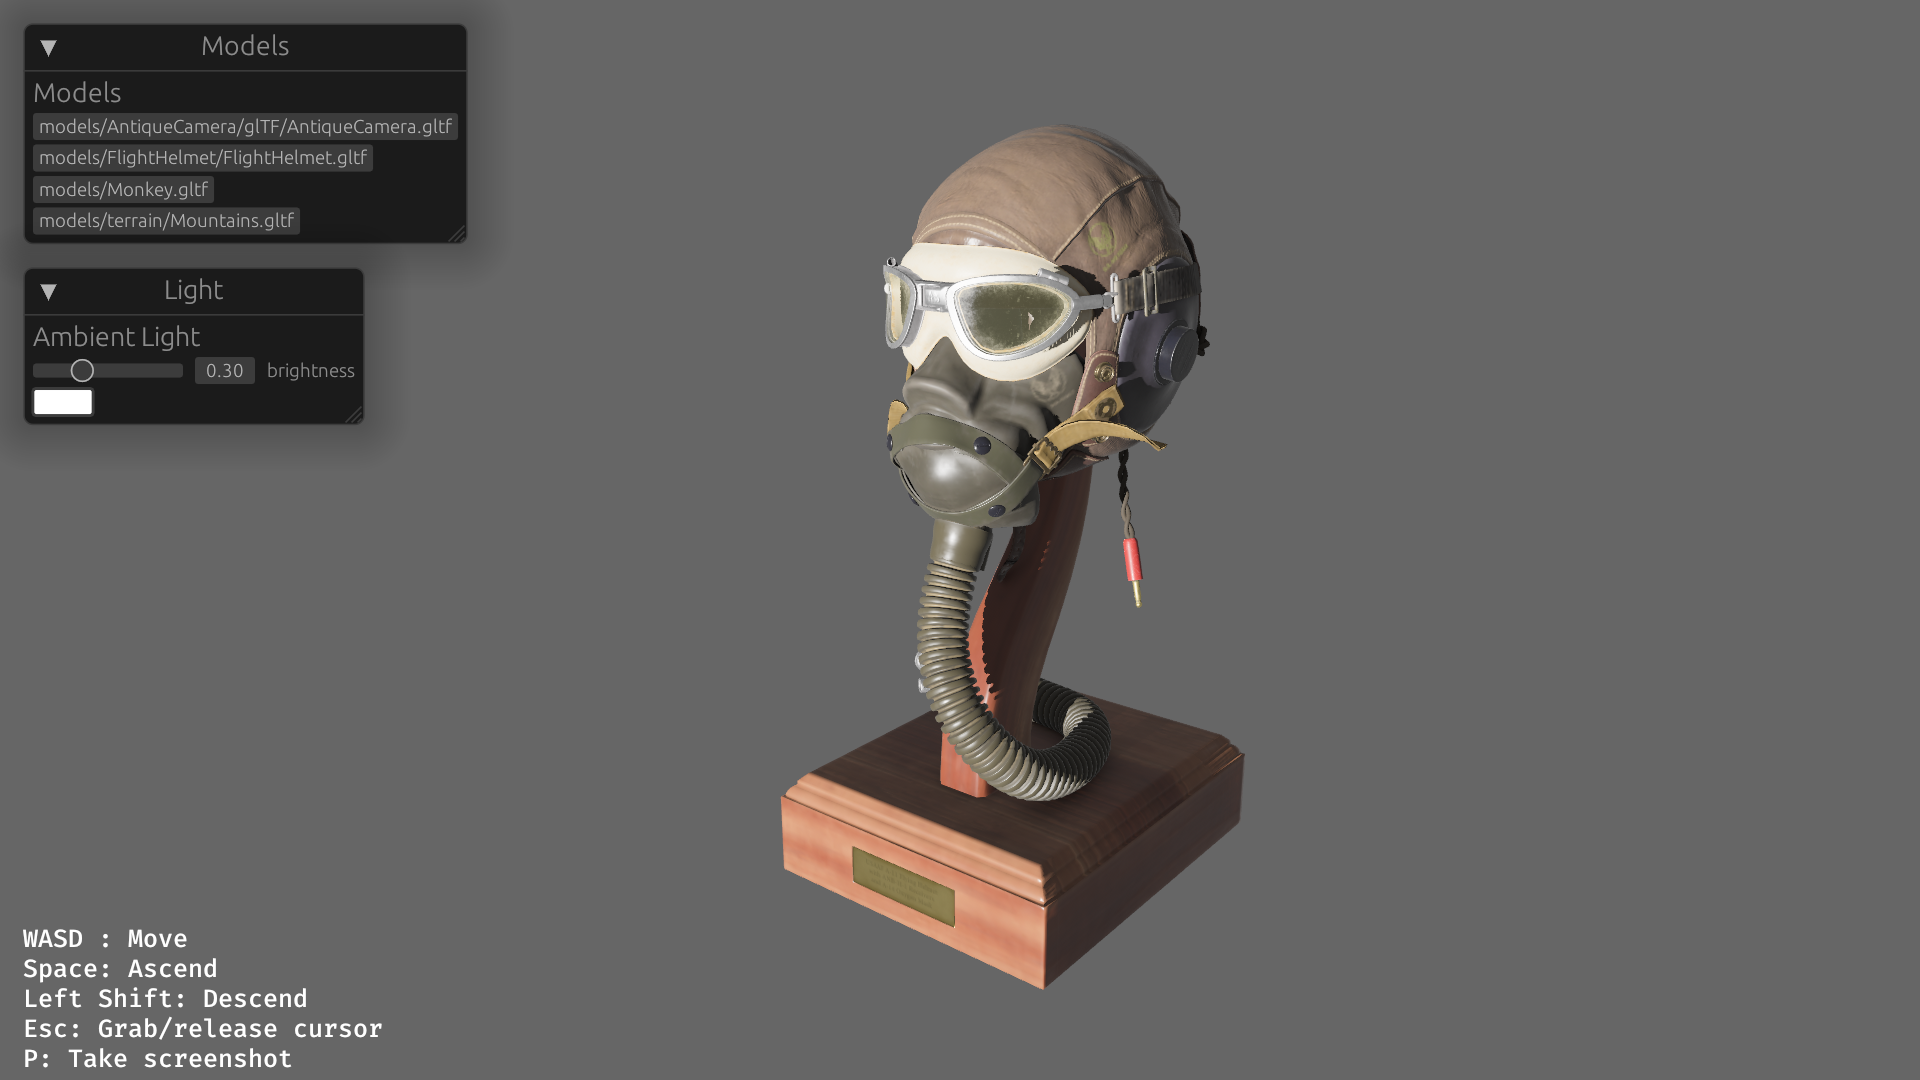
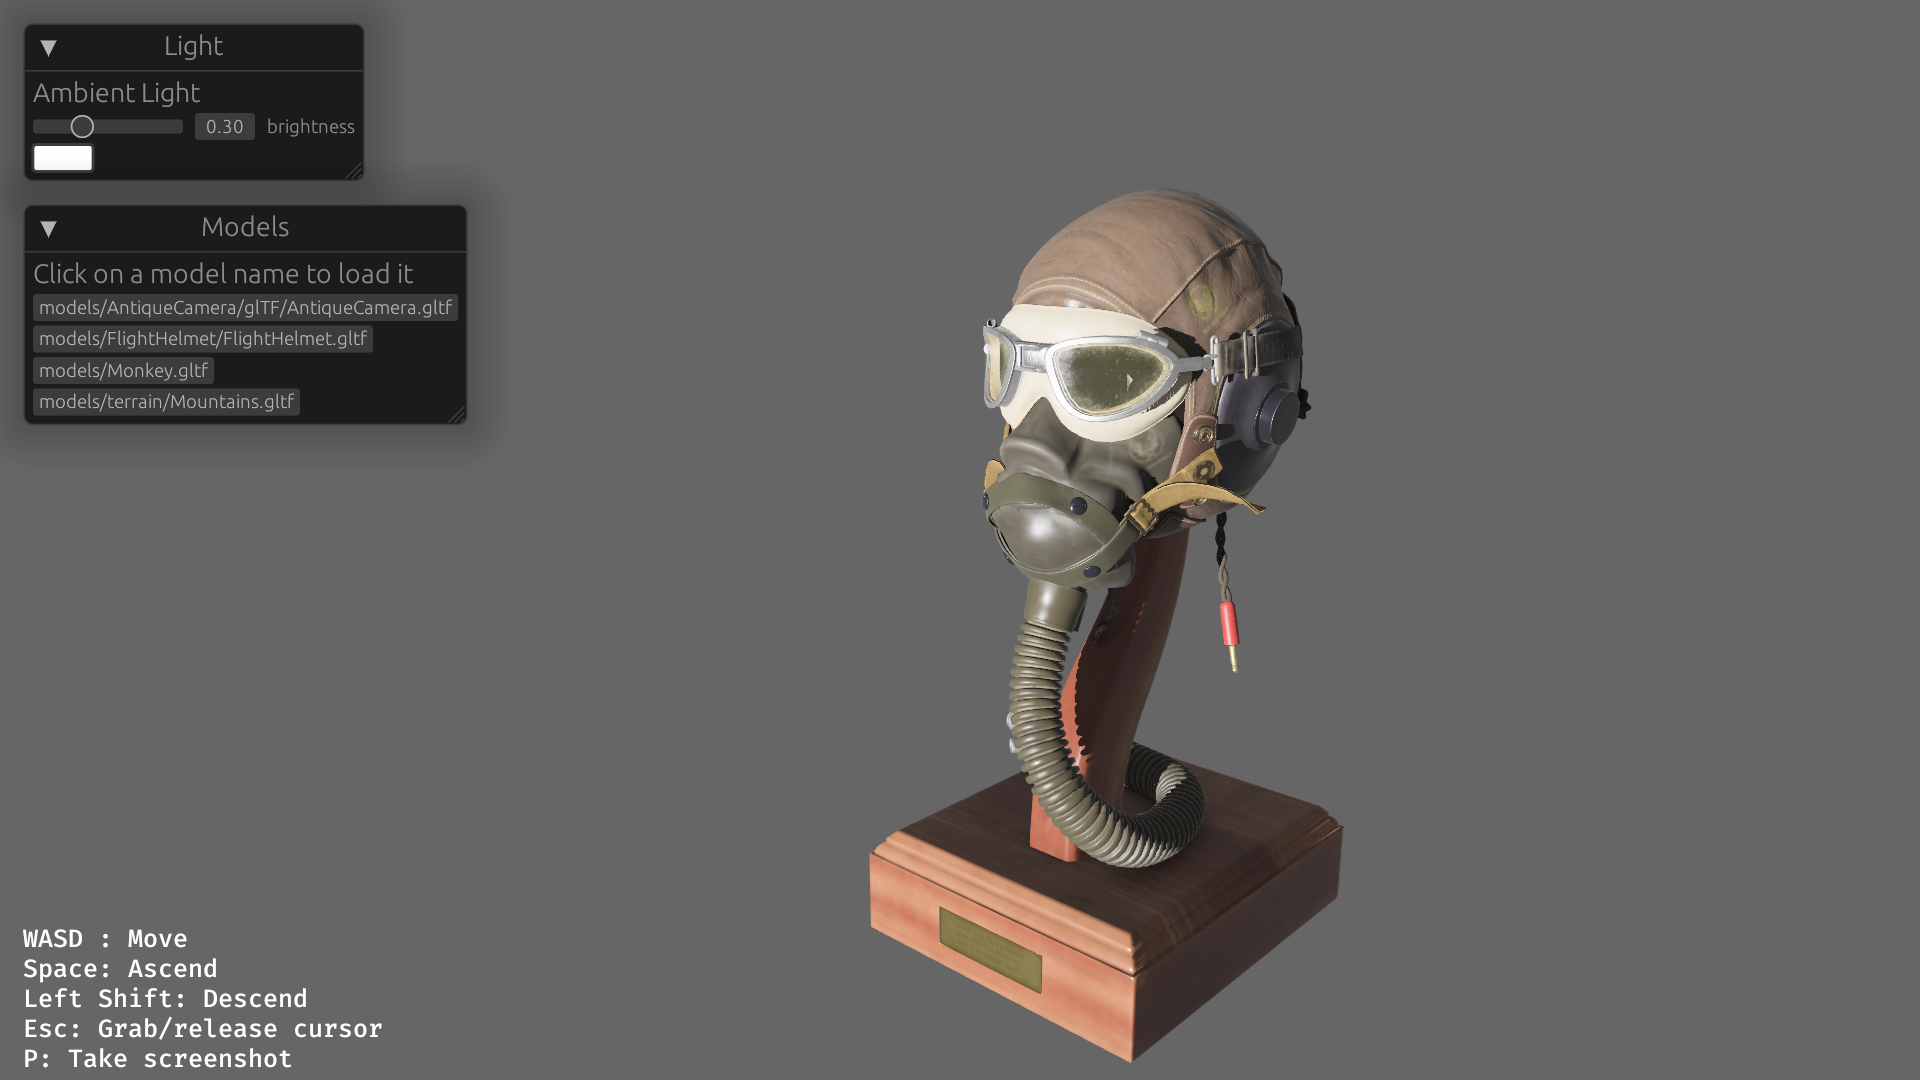
Update instructions to load a model

Changed region(s): [[0.4062, 0.1222, 0.7188, 0.9778], [0.0, 0.0, 0.25, 0.3972], [0.0938, 0.0306, 0.1562, 0.0611]]

diff --git a/src/main.rs b/src/main.rs
@@ -93,7 +93,7 @@ fn show_list_of_models(
     model_paths: Res<ModelPaths>,
 ) {
     egui::Window::new("Models").show(contexts.ctx_mut(), |ui| {
-        ui.heading("Models");
+        ui.heading("Click on a model name to load it");
 
         for path in model_paths.paths.iter() {
             if ui.button(path).clicked() {
